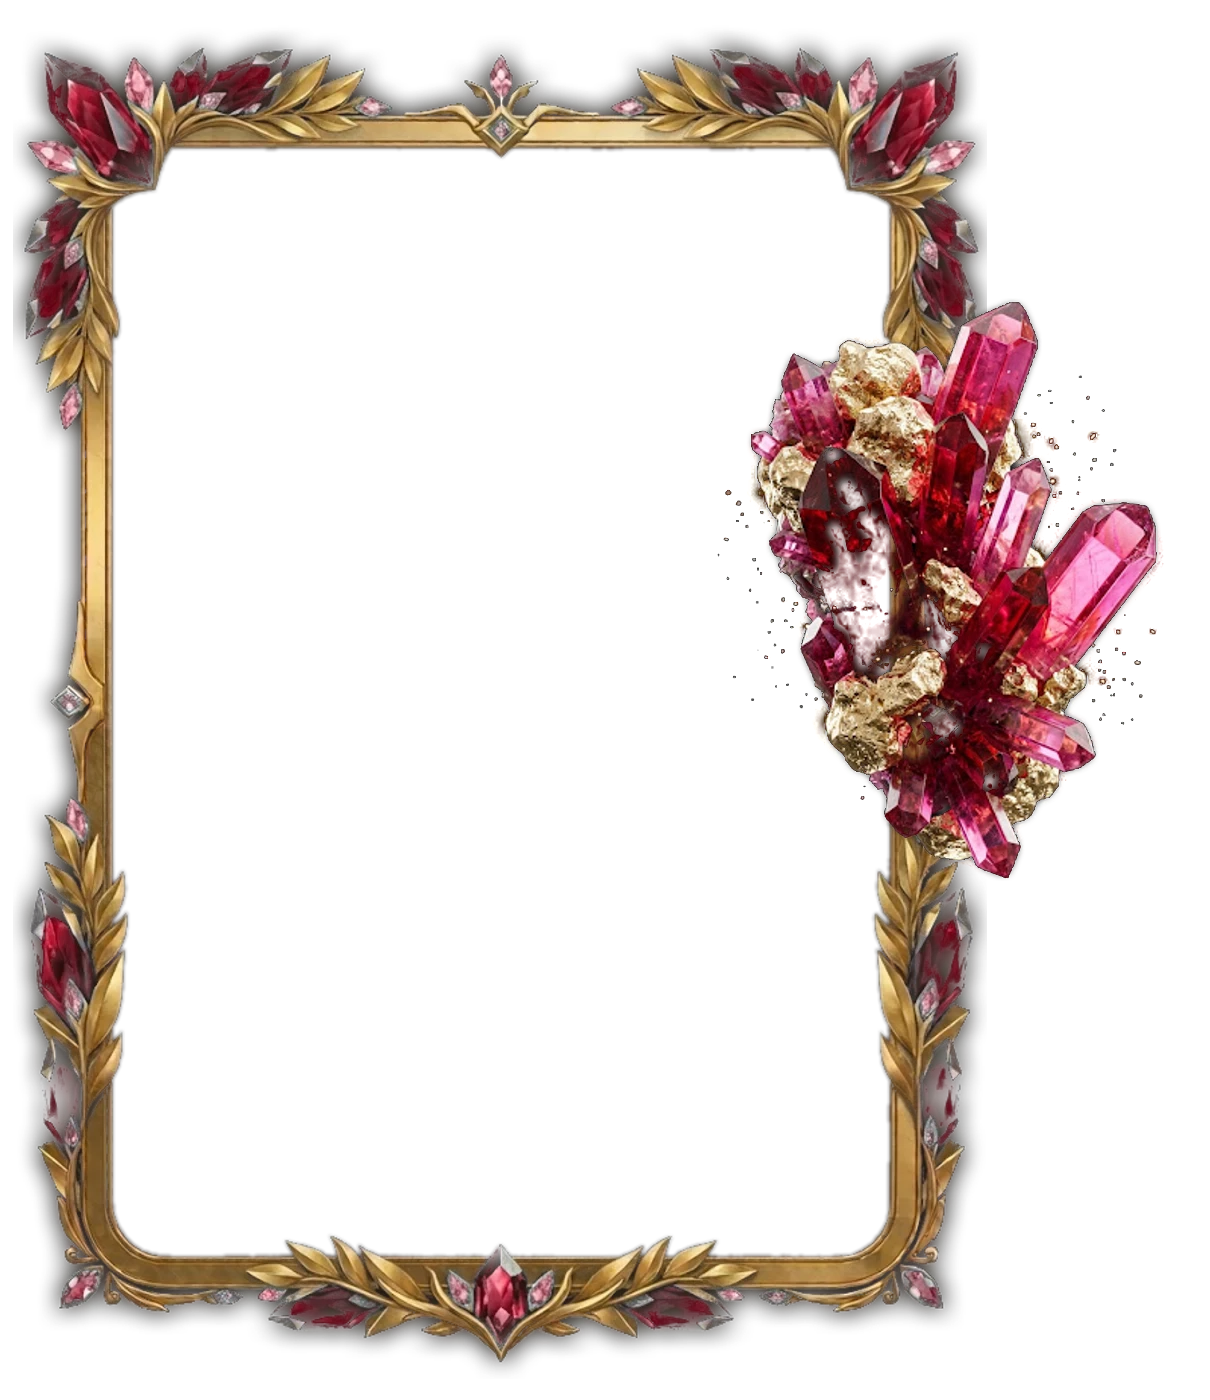
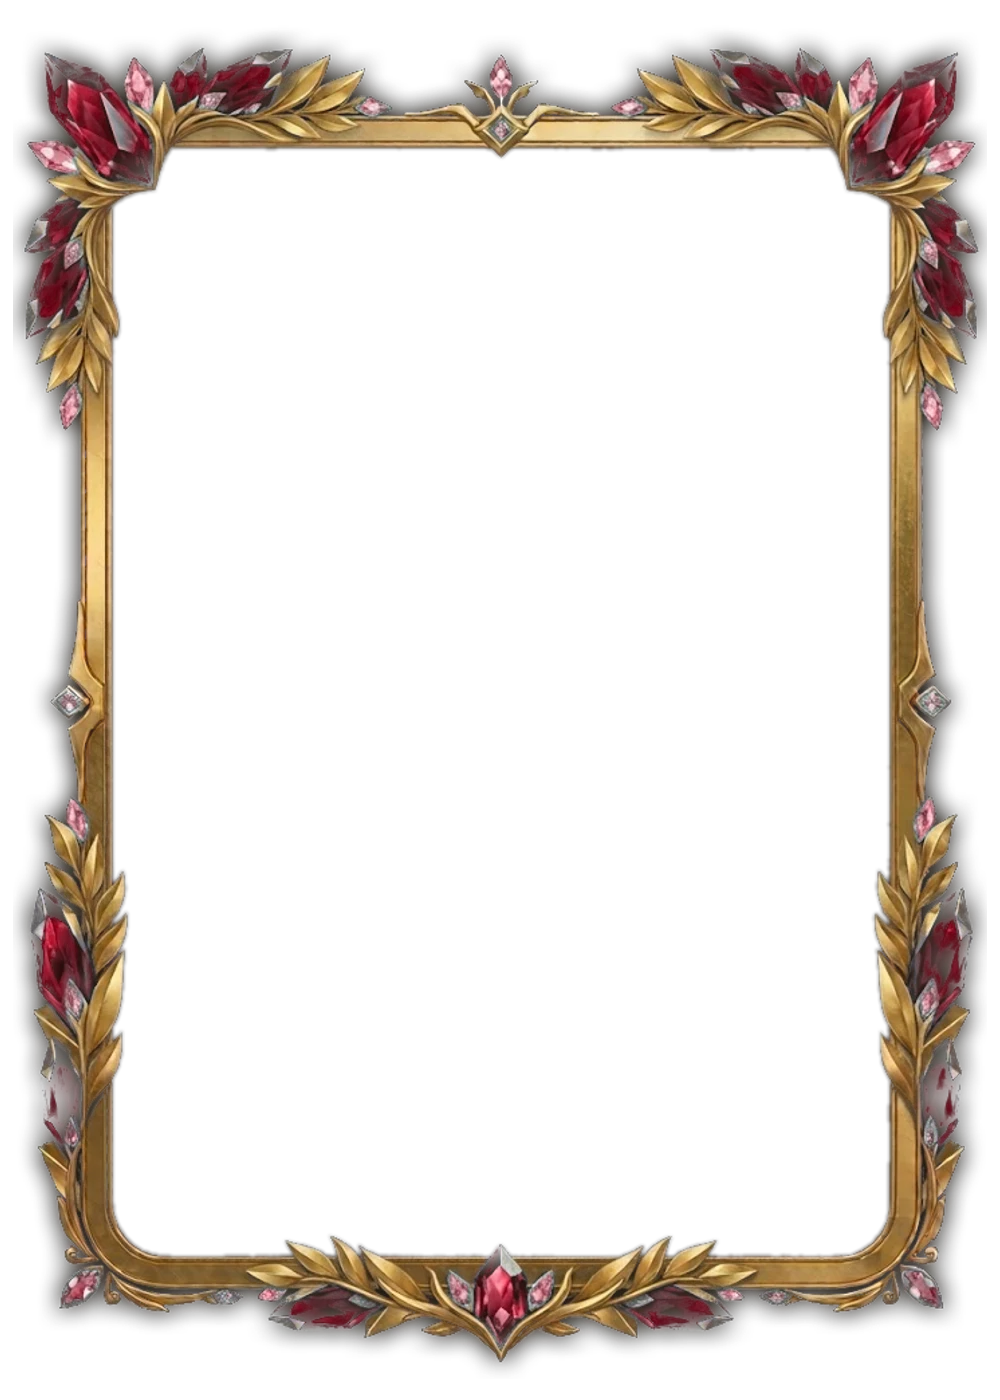
Revert "add 3D renders to Icone and Rubi and promote them to epic"
This reverts commit fe18de06abf754513ec69e03580346ee00aea71a.

diff --git a/components/cancha-card.tsx b/components/cancha-card.tsx
@@ -189,7 +189,7 @@ const ROUPAS = {
   esmeralda: { background: "premium-esmeralda", overflow: "premium-esmeralda-vaza", overflowWidth: 774 / 714, artFrame: true, trim: null, metal: ["#0f6b45", "#0f6b45", "#5fd39a"], accent: "#5fd39a", light: "160 255 200", bar: "#03140c", muted: "#9fffc8", sparkles: false, neon: "#2dffa0" },
   safira: { background: "premium-safira", overflow: "premium-safira-vaza", overflowWidth: 774 / 714, artFrame: true, trim: null, metal: ["#1d4fa8", "#1d4fa8", "#7fb0ff"], accent: "#7fb0ff", light: "170 200 255", bar: "#040a1c", muted: "#a9c8ff", sparkles: false, neon: "#36a6ff" },
   ametista: { background: "premium-ametista", overflow: "premium-ametista-vaza", overflowWidth: 774 / 714, artFrame: true, trim: null, metal: ["#5b2fa0", "#5b2fa0", "#b99bff"], accent: "#b99bff", light: "220 190 255", bar: "#0e0620", muted: "#d2bcff", sparkles: false, neon: "#c46bff" },
-  rubi: { background: "premium-rubi-fino", overflow: "premium-rubi-fino-vaza", overflowWidth: 1.21, artInset: { x: 1.43, y: 1.02, radius: 7.5 }, window: "ring", windowInset: { x: 1.43, y: 1.02 }, windowRadius: 7.5, contentPad: 6.25, artFrame: true, trim: null, metal: ["#9b1530", "#9b1530", "#ff8fa3"], accent: "#ff8fa3", light: "255 190 200", bar: "#1a0309", muted: "#ffb3c0", sparkles: false, neon: "#ff2f66" },
+  rubi: { background: "premium-rubi-fino", overflow: "premium-rubi-fino-vaza", artInset: { x: 1.43, y: 1.02, radius: 7.5 }, window: "ring", windowInset: { x: 1.43, y: 1.02 }, windowRadius: 7.5, contentPad: 6.25, artFrame: true, trim: null, metal: ["#9b1530", "#9b1530", "#ff8fa3"], accent: "#ff8fa3", light: "255 190 200", bar: "#1a0309", muted: "#ffb3c0", sparkles: false, neon: "#ff2f66" },
   // Ícone: branco creme com moldura de ouro claro, lembrando a carta Icon do FIFA (2026-10-29).
   // Natal campeão = carta do CAMPEÃO DO MÊS (melhor jogador do mês) de dezembro de 2026 (decisão do dono do app em 2026-11-05; GUARDADA: falta ligar em `CAMPEAO_MES`/`awardRoupa` quando o tema de dezembro existir em `CARD_THEMES`): malha de tricô verde natalina
   // e moldura de ouro com pinheiro, laços, sinos e azevinho por fora (arte do dono em `prototipos/natal-campeao-*-dono.jpg`, montada por `montar-carta.cjs`). Mesmo padrão da Rubi e da Ícone.
@@ -217,7 +217,7 @@ const ROUPAS = {
   // Maré (2026-11-05, teste do kit em camadas: fundo e borda feitos no Gemini com o gabarito 5:7, montados por `prototipos/montar-carta.cjs`):
   // tromba-d'água num mar de enchente e moldura de ouro com a "capa" de lâminas nos cantos de baixo. Janela padrão (`ring`, 64,5 px da caixa).
   mare: { background: "premium-mare", overflow: "premium-mare-vaza", artInset: { x: 1.43, y: 1.02, radius: 7.5 }, window: "ring", windowInset: { x: 1.43, y: 1.02 }, windowRadius: 7.5, contentPad: 6.25, artFrame: true, clean: true, trim: null, metal: ["#b8902f", "#b8902f", "#fff1c2"], accent: "#f3d27a", light: "120 230 255", bar: "#031018", muted: "#bfeeff", sparkles: false, neon: "#f3d27a" },
-  icone: { background: "premium-icone-fino", clean: true, overflow: "premium-icone-fino-vaza", overflowWidth: 1.21, artInset: { x: 1.43, y: 1.02, radius: 7.5 }, window: "ring", windowInset: { x: 1.43, y: 1.02 }, windowRadius: 7.5, contentPad: 6.25, artFrame: true, trim: null, metal: ["#c9a24e", "#c9a24e", "#fff4d6"], accent: "#e2c06e", light: "255 240 200", bar: "#1a140a", muted: "#f0dfb5", sparkles: false, neon: "#ffcf4d" },
+  icone: { background: "premium-icone-fino", clean: true, overflow: "premium-icone-fino-vaza", artInset: { x: 1.43, y: 1.02, radius: 7.5 }, window: "ring", windowInset: { x: 1.43, y: 1.02 }, windowRadius: 7.5, contentPad: 6.25, artFrame: true, trim: null, metal: ["#c9a24e", "#c9a24e", "#fff4d6"], accent: "#e2c06e", light: "255 240 200", bar: "#1a140a", muted: "#f0dfb5", sparkles: false, neon: "#ffcf4d" },
   // Aurora (2026-11-04, GUARDADA: o dono gostou mas pediu para não aplicar ainda; não está em `CARD_SKINS`, então não aparece na Loja.
   // Para usar: entrada em `CARD_SKINS` (sugestão nível 14, 1600 CC), `case` em `skinRoupa` e `SKIN_CLASSES`): aurora boreal renderizada pixel a pixel em código (`prototipos/premium-aurora.cjs`), fio de ouro, respiro preto,
   // tubo de neon verde-água por fora e a Estrela Polar no topo; a luz da aurora vaza sobre a moldura. Concêntrica: windowRadius = raio da carta − o aro.

diff --git a/lib/packs.ts b/lib/packs.ts
@@ -37,8 +37,8 @@ export const SKIN_RARITIES: Readonly<Record<string, PackRarity>> = {
   esmeralda: "epica",
   safira: "epica",
   ametista: "epica",
-  rubi: "epica",
-  icone: "epica",
+  rubi: "rara",
+  icone: "rara",
   lobisomem: "rara",
   vampiro: "rara",
   nuvem: "epica",

diff --git a/CLAUDE.md b/CLAUDE.md
@@ -26,7 +26,7 @@ Design mobile-first é inegociável: a interação principal (dar notas no vesti
 
 **OVR de carreira e gols no Ataque (2026-11-08, decisão do dono do app; na `main` e migration `20261108140000_career_ovr.sql` aplicada em produção):** o OVR da carta deixou de ser calculado sobre todas as notas juntas e passou a ser a **média simples dos OVRs de cada rodada** (sem tirar nenhuma; em cada rodada a maior e a menor nota já saem, `counted_evaluations`), e cada atributo é a média dele nas rodadas (`computeCareerCard` em `lib/ovr.ts`; `computeOvr` ficou como o OVR de UMA rodada, usado na nota da rodada e nos pontos do ranking). **Cada gol confirmado soma +1 no Ataque** (VEL e CHU, teto de +10, `GOAL_ATTACK_BONUS_*`, goleiro fora); o OVR sobe o quanto o Ataque maior faz subir a média das 2 maiores estatísticas. O OVR da carta e as 3 estatísticas exibidas podem diferir em 1 ponto. A carta congelada dos prêmios (`compute_match_awards`) segue a mesma conta, com o OVR saindo de `card_ovr` dos atributos. `buildPlayers` e `getOvrByMember` recebem os gols confirmados (`getConfirmedGoalsByMember` em `lib/match-goals.ts`). Vale para o histórico (OVRs de hoje mudam ao entrar). **Desempate das premiações individuais (migration `20261108130000`, em produção, rodadas a partir de 2026-11-08):** empate na nota → maior OVR geral → maior média de todas as notas → todos ganham; Bola Murcha inverso; pacotes seguem com "empate igual". Testes: `supabase/tests/awards-tiebreak/tiebreak.mjs`.
 
-**Pacotes de skins (2026-11-08, em construção na branch `feat/pacotes`, TUDO DESLIGADO em produção; design em `docs/superpowers/specs/2026-11-07-pacotes-design.md` e plano em `docs/superpowers/plans/2026-11-07-pacotes-plan.md`, ambos na branch `docs/pacotes-design`):** ao fechar a rodada, quem jogou ganha 1 pacote lacrado com 1 skin (só visual/coleção, não muda a pelada). Banco (migration `20261108120000_packs.sql`, aplicada em produção desligada): `groups.packs_enabled` (padrão falso, só o `/admin` liga, junto com `pack_min_players`, padrão 10), tabelas sem acesso direto (`pack_sets` por mês, `pack_tier_odds`, `pack_config`, `pack_rarity_coins`, `packs`), sorteio dentro de `close_match` (`draw_round_packs`: faixas A Craque, B Destaque, C Pelada, D Reserva pela nota da rodada, proteção contra azar `m = 1 + (M-1)·t²`, garantia nos últimos 7 dias, chance real gravada por pacote), `get_my_packs`, `count_my_unopened_packs` e `open_pack` (idempotente; skin repetida vira CC: comum 10, rara 20, épica 50, lendária 100; posse em `card_skin_purchases` com `source = 'pack'`). Testes: `supabase/tests/packs/packs.mjs` e `seed-script.mjs`. App: `lib/packs.ts`, `app/loja/_data-access/get-my-packs.ts`, `open-pack.ts`, **Loja → Meus pacotes** (`my-packs.tsx`, linhas compactas, 3 visíveis e "Mostrar todos"), pontinho âmbar no ícone da Loja (`PackDot` em `main-nav.tsx`, `lib/pack-count.ts`), "Você ganhou o Pacote" em "Sua rodada" (`pack-reward.tsx`, Abrir agora / Guardar), abertura em tela cheia (`components/pack-stage.tsx`, protótipo aprovado; `pack-opener.tsx`; modo `pure` da `CanchaCard`; tampão escuro em degradê atrás do capuz da Destino), raridade em Eu → Minhas cartas e moedas das repetidas somadas ao saldo (`getLeague`). Capinha provisória por faixa em `components/pack-cover.tsx`; guia do prompt do Gemini em `docs/superpowers/specs/2026-11-08-capinhas-pacote-prompt.md`. Scripts de teste: `supabase/scripts/seed-test-packs.sql` e `cleanup-test-packs.sql` (precisam da pelada "Teste Pacotes" criada no `/admin`). **Decisão do dono do app em 2026-11-08: só testar em produção depois de terminar o design de todas as cartas e das capinhas dos pacotes; lançamento planejado para 1/12 (versão 3.21.0). **Regras de raridade das skins de pacote (decisão do dono do app em 2026-11-08):** cada nível acrescenta algo que o anterior não tem. **Comum:** borda simples (fio ou tubo) e fundo padrão ou textura leve. **Rara:** borda trabalhada de leve e fundo com pattern próprio. **Épica:** borda trabalhada, fundo sofisticado e **1 peça em render 3D vazando** da carta (animação opcional, como raios acendendo). **Lendária:** borda trabalhada com enfeites, fundo sofisticado (ferro, metal), **render 3D vazando**, **elementos flutuando em volta** (círculo atrás e runas ou cacos) e animação; só 1 por conjunto e é o único nível com flutuantes (também o mais pesado para o iPhone). Peças de arte no Gemini: comum 1, rara 2 (fundo e borda), épica 3 (fundo, borda e render), lendária 3 mais 3 a 5 flutuantes. **Comuns e raras podem ser recolores do mesmo desenho** (coluna `pack_sets.design`), como Esmeralda, Safira, Ametista e Rubi. Régua com o que existe: Destino lendária; Lenda do Trovão e Relâmpago entre épica e lendária; os cristais (Safira, Ametista, Esmeralda) seriam épicas pela regra; Rubi e Ícone épicas (2026-11-09: ganharam um render 3D vazando pela direita, `prototipos/render-vaza.cjs`, porque custam mais que as outras épicas; louros dourados na borda). **Como mostrar a raridade (2026-11-09):** por enquanto só **escrita** embaixo do nome da carta na Loja e em Eu → Minhas cartas (`CardSkinTile`, `SKIN_RARITIES` e `getSkinRarity` em `lib/packs.ts`); a ideia do cristal embaixo da carta (three.js, ray tracing, `scripts/rarity-gems/`, imagens guardadas em `scripts/rarity-gems/saida/`) foi **descartada pelo dono do app** por ficar longe/estranha; a representação nas outras telas (Início, Carreira, mesa tática, ranking) ainda será definida por ele (a skin não mostra nada fora da Loja e de Eu). **Verso da carta e giro (2026-11-09):** a raridade da skin aparece no **verso da carta** (`components/card-back.tsx`: placa fosca na cor da raridade, fio fino, quadra de futsal desenhada em código na proporção real de 40 x 20 m e simétrica, plaquinhas com o nome da skin e da raridade e, no centro, a moeda com a logo, arte do Gemini em quatro cores em `public/cartas/versos/moeda-<raridade>.webp`, gerada por `scripts/card-backs/make-coins.mjs`). O giro mora no **visualizador de carta** (`components/card-viewer.tsx`, `CardViewer`; decisão do dono do app em 2026-11-09, sem botão de virar): tocar na carta em **Início, Carreira, Eu e nas miniaturas de Loja/Eu** abre um modal com a carta grande, que **vira ao toque** para o verso da raridade (só `transform`, em duas metades, sem `backface-visibility`; só skins com raridade), e embaixo os detalhes (OVR, patente, as 3 estatísticas e a skin com a raridade). Mesa tática, ranking, Artilharia e Comunidade ficam como eram (sem giro). Na abertura do pacote o verso é o mesmo, com os nomes em branco (a skin é segredo). A legenda escrita da raridade (`RarityLabel` com o cristal do three.js) fica só na Loja e em Eu. Prompts do Gemini em `docs/superpowers/specs/2026-11-09-versos-cartas-prompt.md`. Dezembro decidido em 2026-11-08: as 5 cartas de Natal das premiações individuais ficam como estão (sem repaginar) e os pacotes são todos da temática do filme (só alusões originais); a Loja mistura Natal e filme, a decidir. Faltam: artes das 4 capinhas e o conjunto real de dezembro (skins e raridades, tudo do filme).**
+**Pacotes de skins (2026-11-08, em construção na branch `feat/pacotes`, TUDO DESLIGADO em produção; design em `docs/superpowers/specs/2026-11-07-pacotes-design.md` e plano em `docs/superpowers/plans/2026-11-07-pacotes-plan.md`, ambos na branch `docs/pacotes-design`):** ao fechar a rodada, quem jogou ganha 1 pacote lacrado com 1 skin (só visual/coleção, não muda a pelada). Banco (migration `20261108120000_packs.sql`, aplicada em produção desligada): `groups.packs_enabled` (padrão falso, só o `/admin` liga, junto com `pack_min_players`, padrão 10), tabelas sem acesso direto (`pack_sets` por mês, `pack_tier_odds`, `pack_config`, `pack_rarity_coins`, `packs`), sorteio dentro de `close_match` (`draw_round_packs`: faixas A Craque, B Destaque, C Pelada, D Reserva pela nota da rodada, proteção contra azar `m = 1 + (M-1)·t²`, garantia nos últimos 7 dias, chance real gravada por pacote), `get_my_packs`, `count_my_unopened_packs` e `open_pack` (idempotente; skin repetida vira CC: comum 10, rara 20, épica 50, lendária 100; posse em `card_skin_purchases` com `source = 'pack'`). Testes: `supabase/tests/packs/packs.mjs` e `seed-script.mjs`. App: `lib/packs.ts`, `app/loja/_data-access/get-my-packs.ts`, `open-pack.ts`, **Loja → Meus pacotes** (`my-packs.tsx`, linhas compactas, 3 visíveis e "Mostrar todos"), pontinho âmbar no ícone da Loja (`PackDot` em `main-nav.tsx`, `lib/pack-count.ts`), "Você ganhou o Pacote" em "Sua rodada" (`pack-reward.tsx`, Abrir agora / Guardar), abertura em tela cheia (`components/pack-stage.tsx`, protótipo aprovado; `pack-opener.tsx`; modo `pure` da `CanchaCard`; tampão escuro em degradê atrás do capuz da Destino), raridade em Eu → Minhas cartas e moedas das repetidas somadas ao saldo (`getLeague`). Capinha provisória por faixa em `components/pack-cover.tsx`; guia do prompt do Gemini em `docs/superpowers/specs/2026-11-08-capinhas-pacote-prompt.md`. Scripts de teste: `supabase/scripts/seed-test-packs.sql` e `cleanup-test-packs.sql` (precisam da pelada "Teste Pacotes" criada no `/admin`). **Decisão do dono do app em 2026-11-08: só testar em produção depois de terminar o design de todas as cartas e das capinhas dos pacotes; lançamento planejado para 1/12 (versão 3.21.0). **Regras de raridade das skins de pacote (decisão do dono do app em 2026-11-08):** cada nível acrescenta algo que o anterior não tem. **Comum:** borda simples (fio ou tubo) e fundo padrão ou textura leve. **Rara:** borda trabalhada de leve e fundo com pattern próprio. **Épica:** borda trabalhada, fundo sofisticado e **1 peça em render 3D vazando** da carta (animação opcional, como raios acendendo). **Lendária:** borda trabalhada com enfeites, fundo sofisticado (ferro, metal), **render 3D vazando**, **elementos flutuando em volta** (círculo atrás e runas ou cacos) e animação; só 1 por conjunto e é o único nível com flutuantes (também o mais pesado para o iPhone). Peças de arte no Gemini: comum 1, rara 2 (fundo e borda), épica 3 (fundo, borda e render), lendária 3 mais 3 a 5 flutuantes. **Comuns e raras podem ser recolores do mesmo desenho** (coluna `pack_sets.design`), como Esmeralda, Safira, Ametista e Rubi. Régua com o que existe: Destino lendária; Lenda do Trovão e Relâmpago entre épica e lendária; os cristais (Safira, Ametista, Esmeralda) seriam épicas pela regra; Rubi e Ícone (louros, sem vazar) raras. **Como mostrar a raridade (2026-11-09):** por enquanto só **escrita** embaixo do nome da carta na Loja e em Eu → Minhas cartas (`CardSkinTile`, `SKIN_RARITIES` e `getSkinRarity` em `lib/packs.ts`); a ideia do cristal embaixo da carta (three.js, ray tracing, `scripts/rarity-gems/`, imagens guardadas em `scripts/rarity-gems/saida/`) foi **descartada pelo dono do app** por ficar longe/estranha; a representação nas outras telas (Início, Carreira, mesa tática, ranking) ainda será definida por ele (a skin não mostra nada fora da Loja e de Eu). **Verso da carta e giro (2026-11-09):** a raridade da skin aparece no **verso da carta** (`components/card-back.tsx`: placa fosca na cor da raridade, fio fino, quadra de futsal desenhada em código na proporção real de 40 x 20 m e simétrica, plaquinhas com o nome da skin e da raridade e, no centro, a moeda com a logo, arte do Gemini em quatro cores em `public/cartas/versos/moeda-<raridade>.webp`, gerada por `scripts/card-backs/make-coins.mjs`). O giro mora no **visualizador de carta** (`components/card-viewer.tsx`, `CardViewer`; decisão do dono do app em 2026-11-09, sem botão de virar): tocar na carta em **Início, Carreira, Eu e nas miniaturas de Loja/Eu** abre um modal com a carta grande, que **vira ao toque** para o verso da raridade (só `transform`, em duas metades, sem `backface-visibility`; só skins com raridade), e embaixo os detalhes (OVR, patente, as 3 estatísticas e a skin com a raridade). Mesa tática, ranking, Artilharia e Comunidade ficam como eram (sem giro). Na abertura do pacote o verso é o mesmo, com os nomes em branco (a skin é segredo). A legenda escrita da raridade (`RarityLabel` com o cristal do three.js) fica só na Loja e em Eu. Prompts do Gemini em `docs/superpowers/specs/2026-11-09-versos-cartas-prompt.md`. Dezembro decidido em 2026-11-08: as 5 cartas de Natal das premiações individuais ficam como estão (sem repaginar) e os pacotes são todos da temática do filme (só alusões originais); a Loja mistura Natal e filme, a decidir. Faltam: artes das 4 capinhas e o conjunto real de dezembro (skins e raridades, tudo do filme).**
 
 **Foco do produto:** é um "fantasy" da pelada: nota, carta, OVR e sorteio. Confirmação de presença e placar ficam no WhatsApp; não construa gestão de pelada além do necessário.
 

diff --git a/.claude/rules/design-system.md b/.claude/rules/design-system.md
@@ -71,7 +71,7 @@ Desde 2026-10-29 todas as cartas usam a `CanchaCard` (o `PlayerCard` a chama). A
 
 ## 🎴 Raridade das skins de pacote (2026-11-08)
 
-cada nível acrescenta algo que o anterior não tem. **Comum:** borda simples (fio ou tubo) e fundo padrão ou textura leve. **Rara:** borda trabalhada de leve e fundo com pattern próprio. **Épica:** borda trabalhada, fundo sofisticado e **1 peça em render 3D vazando** da carta (animação opcional, como raios acendendo). **Lendária:** borda trabalhada com enfeites, fundo sofisticado (ferro, metal), **render 3D vazando**, **elementos flutuando em volta** (círculo atrás e runas ou cacos) e animação; só 1 por conjunto e é o único nível com flutuantes (também o mais pesado para o iPhone). Peças de arte no Gemini: comum 1, rara 2 (fundo e borda), épica 3 (fundo, borda e render), lendária 3 mais 3 a 5 flutuantes. **Comuns e raras podem ser recolores do mesmo desenho** (coluna `pack_sets.design`), como Esmeralda, Safira, Ametista e Rubi. Régua com o que existe: Destino lendária; Lenda do Trovão e Relâmpago entre épica e lendária; os cristais (Safira, Ametista, Esmeralda) seriam épicas pela regra; Rubi e Ícone épicas (2026-11-09: render 3D vazando pela direita, arte do Gemini, `prototipos/render-vaza.cjs`, `overflowWidth` 1.21).
+cada nível acrescenta algo que o anterior não tem. **Comum:** borda simples (fio ou tubo) e fundo padrão ou textura leve. **Rara:** borda trabalhada de leve e fundo com pattern próprio. **Épica:** borda trabalhada, fundo sofisticado e **1 peça em render 3D vazando** da carta (animação opcional, como raios acendendo). **Lendária:** borda trabalhada com enfeites, fundo sofisticado (ferro, metal), **render 3D vazando**, **elementos flutuando em volta** (círculo atrás e runas ou cacos) e animação; só 1 por conjunto e é o único nível com flutuantes (também o mais pesado para o iPhone). Peças de arte no Gemini: comum 1, rara 2 (fundo e borda), épica 3 (fundo, borda e render), lendária 3 mais 3 a 5 flutuantes. **Comuns e raras podem ser recolores do mesmo desenho** (coluna `pack_sets.design`), como Esmeralda, Safira, Ametista e Rubi. Régua com o que existe: Destino lendária; Lenda do Trovão e Relâmpago entre épica e lendária; os cristais (Safira, Ametista, Esmeralda) seriam épicas pela regra; Rubi e Ícone (louros, sem vazar) raras.
 
 ## 🃏 Carta do jogador (desenho antigo, `LegacyPlayerCard`)
 
